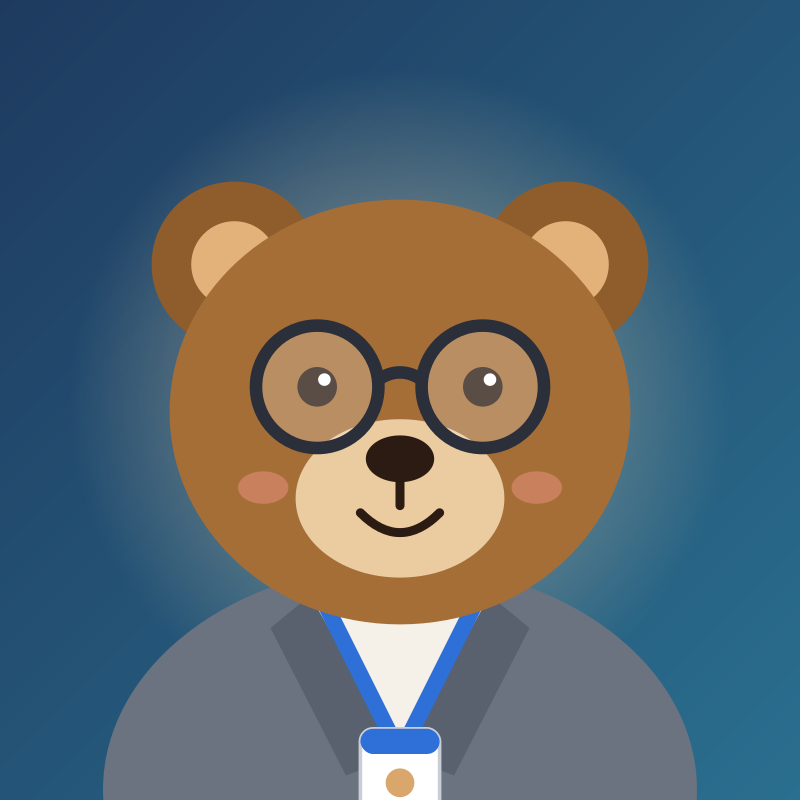
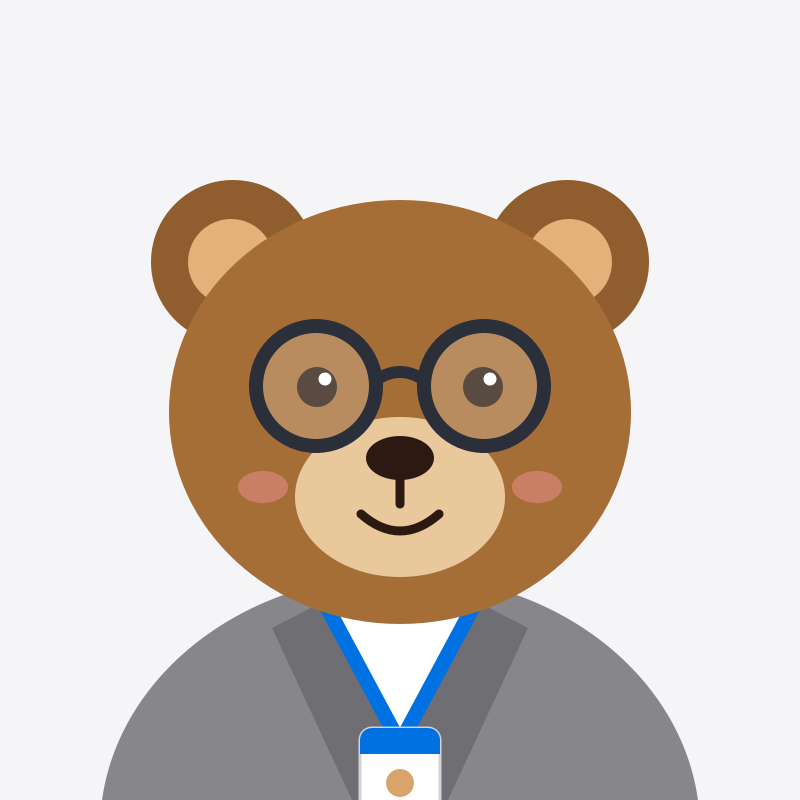
chore: white-theme mascot, new OG image, security updates, cleanup
- Redraw bear mascot on light background; regenerate profile, icons, favicon
- New Open Graph image matching the light design
- Upgrade next 16.4.6, react 19.3.1, nodemailer 10.6.0 (0 audit issues)
- Replace Material Symbols font with inline SVG icons
- Remove unused tool-name list and solution icon fields

diff --git a/src/data/solutions.ts b/src/data/solutions.ts
@@ -5,7 +5,6 @@ export interface Solution {
   name: string;
   summary: string;
   url: string;
-  icon: string; // Material Symbols 이름
   image: string; // public/images 안의 화면 캡처
   imageAlt: string;
 }
@@ -17,7 +16,6 @@ export const FEATURED_SOLUTIONS: Solution[] = [
     name: "AI-SEN 행정챗봇 & 출장여비",
     summary: "지침서·법령 근거로 답하는 3-Tier 챗봇과 관내·관외·해외 출장여비 산출",
     url: SITE.chatbotUrl,
-    icon: "smart_toy",
     image: "/images/shot-chatbot.webp",
     imageAlt: "AI-SEN 행정챗봇 화면",
   },
@@ -26,7 +24,6 @@ export const FEATURED_SOLUTIONS: Solution[] = [
     name: "서울교육 계약나침반",
     summary: "2026 지침 기준 계약방법 판단과 구비서류 안내",
     url: `${SITE.portalUrl}/tools/contract`,
-    icon: "explore",
     image: "/images/shot-contract.webp",
     imageAlt: "서울교육 계약나침반 화면",
   },
@@ -35,21 +32,12 @@ export const FEATURED_SOLUTIONS: Solution[] = [
     name: "공사원가 스마트 검수",
     summary: "조달청 고시 제비율 기준 역산 검증 및 검수 보고서 출력",
     url: `${SITE.portalUrl}/tools/cost-audit`,
-    icon: "calculate",
     image: "/images/shot-cost-audit.webp",
     imageAlt: "공사원가 스마트 검수 화면",
   },
 ];
 
-// AI-SEN 포털에 게시된 16종 도구 이름 (aisen.store 홈 목록 기준). 흐르는 띠에 사용합니다.
-export const ALL_TOOL_NAMES = [
-  "행정챗봇", "행정서고", "출장여비", "에듀파인 따라하기",
-  "계약", "공사원가", "학교회계", "예산정산",
-  "엑셀수합", "엑셀분리", "급여식대", "학생진급",
-  "기안문", "지출바인더", "교실배치도", "시설대관",
-] as const;
-
-// 전체 도구 카드 영역. aisen.store 홈 목록 기준.
+// "그 밖의 업무 도구" 목록. aisen.store 홈 목록 기준 (대표 솔루션 3개 + 아래 12개 = 16종, 출장여비는 챗봇에 포함).
 export const OTHER_TOOLS: { name: string; summary: string }[] = [
   { name: "행정서고", summary: "공식 지침서 102권 열람" },
   { name: "학교회계", summary: "세부사업·추경 집행 대시보드 (베타)" },

diff --git a/src/app/card/page.tsx b/src/app/card/page.tsx
@@ -3,7 +3,7 @@ import Image from "next/image";
 import Link from "next/link";
 import QrCode from "../components/QrCode";
 import VCardButton from "../components/VCardButton";
-import { Chevron } from "../components/ui";
+import { Chevron, Icon } from "../components/ui";
 import { SITE } from "@/data/site";
 import { FEATURED_SOLUTIONS } from "@/data/solutions";
 
@@ -35,11 +35,11 @@ export default function CardPage() {
           <div className="grid grid-cols-2 gap-2">
             {SITE.phone && (
               <a href={`tel:${SITE.phone}`} className={`${btn} bg-paper text-ink hover:bg-[#e8e8ed]`}>
-                <span className="material-symbols-outlined !text-[20px]" aria-hidden="true">call</span>전화
+                <Icon name="call" />전화
               </a>
             )}
             <a href={`mailto:${SITE.email}`} className={`${btn} bg-paper text-ink hover:bg-[#e8e8ed]`}>
-              <span className="material-symbols-outlined !text-[20px]" aria-hidden="true">mail</span>이메일
+              <Icon name="mail" />이메일
             </a>
             <VCardButton className={`${btn} bg-accent text-white hover:bg-[#0077ed] ${SITE.phone ? "col-span-2" : ""}`} />
           </div>

diff --git a/src/app/components/ui.tsx b/src/app/components/ui.tsx
@@ -2,6 +2,23 @@ import type { ReactNode } from "react";
 
 // 공통 부품: 섹션 제목, 꺾쇠 링크. 디자인을 바꿀 때 여기부터 손보면 전체에 반영됩니다.
 
+// 사이트에서 쓰는 아이콘 (선 굵기 1.8의 단순한 SVG). 외부 아이콘 폰트를 받지 않습니다.
+const ICON_PATHS = {
+  menu: "M4 8h16M4 16h16",
+  close: "M6 6l12 12M18 6L6 18",
+  mail: "M4 6h16v12H4zM4 7l8 6 8-6",
+  call: "M6.5 3.5h3l1.5 4-2 1.5a11 11 0 0 0 6 6l1.5-2 4 1.5v3a2 2 0 0 1-2 2A16 16 0 0 1 4.5 5.5a2 2 0 0 1 2-2z",
+  personAdd: "M9.5 11a3.5 3.5 0 1 0 0-7 3.5 3.5 0 0 0 0 7zM3 20a6.5 6.5 0 0 1 13 0M19 8v6M16 11h6",
+} as const;
+
+export function Icon({ name, className = "w-5 h-5" }: { name: keyof typeof ICON_PATHS; className?: string }) {
+  return (
+    <svg viewBox="0 0 24 24" aria-hidden="true" className={className}>
+      <path d={ICON_PATHS[name]} fill="none" stroke="currentColor" strokeWidth="1.8" strokeLinecap="round" strokeLinejoin="round" />
+    </svg>
+  );
+}
+
 export function Chevron({ className = "" }: { className?: string }) {
   return (
     <svg viewBox="0 0 8 14" aria-hidden="true" className={`inline-block w-[0.42em] h-[0.75em] ${className}`}>

diff --git a/src/app/layout.tsx b/src/app/layout.tsx
@@ -21,9 +21,6 @@ export const viewport: Viewport = {
   themeColor: "#ffffff",
 };
 
-// 사이트에서 쓰는 아이콘만 받아옵니다 (알파벳순 필수). 새 아이콘을 쓰면 여기에 추가하세요.
-const ICONS = ["call", "close", "mail", "menu", "person_add"].join(",");
-
 export default function RootLayout({
   children,
 }: Readonly<{
@@ -37,10 +34,6 @@ export default function RootLayout({
         <link
           rel="stylesheet"
           href="https://cdn.jsdelivr.net/gh/orioncactus/pretendard@v1.3.9/dist/web/variable/pretendardvariable-dynamic-subset.min.css"
-        />
-        <link
-          rel="stylesheet"
-          href={`https://fonts.googleapis.com/css2?family=Material+Symbols+Outlined:opsz,wght,FILL,GRAD@20..48,100..700,0..1,-50..200&icon_names=${ICONS}&display=block`}
         />
       </head>
       <body className="min-h-full flex flex-col">{children}</body>

diff --git a/src/app/globals.css b/src/app/globals.css
@@ -45,23 +45,6 @@
   }
 }
 
-/* Material Symbols */
-.material-symbols-outlined {
-  font-family: 'Material Symbols Outlined';
-  font-weight: normal;
-  font-style: normal;
-  font-size: 24px;
-  line-height: 1;
-  letter-spacing: normal;
-  text-transform: none;
-  display: inline-block;
-  white-space: nowrap;
-  word-wrap: normal;
-  direction: ltr;
-  -webkit-font-feature-settings: 'liga';
-  -webkit-font-smoothing: antialiased;
-}
-
 /* ───────── 움직임 ─────────
    스크롤하면 살짝 떠오르는 효과만 씁니다. '동작 줄이기' 설정에서는 꺼집니다.
    스크롤 연동은 지원 브라우저(Chrome·Edge)에서만 켜지고, 그 외에는 그냥 보입니다. */

diff --git a/src/app/components/MobileMenu.tsx b/src/app/components/MobileMenu.tsx
@@ -2,6 +2,7 @@
 
 import { useEffect, useId, useState } from "react";
 import Link from "next/link";
+import { Icon } from "./ui";
 
 interface MobileMenuProps {
   links: { href: string; label: string }[];
@@ -32,7 +33,7 @@ export default function MobileMenu({ links, pages }: MobileMenuProps) {
         onClick={() => setOpen((v) => !v)}
         className="grid place-items-center w-11 h-11 text-ink"
       >
-        <span className="material-symbols-outlined !text-[22px]" aria-hidden="true">{open ? "close" : "menu"}</span>
+        <Icon name={open ? "close" : "menu"} className="w-6 h-6" />
       </button>
 
       {open && (

diff --git a/src/app/components/VCardButton.tsx b/src/app/components/VCardButton.tsx
@@ -1,6 +1,7 @@
 "use client";
 
 import { SITE } from "@/data/site";
+import { Icon } from "./ui";
 
 function esc(s: string) {
   return s.replace(/\\/g, "\\\\").replace(/;/g, "\\;").replace(/,/g, "\\,").replace(/\n/g, "\\n");
@@ -36,7 +37,7 @@ export default function VCardButton({ className = "" }: { className?: string }) 
 
   return (
     <button type="button" onClick={download} className={className}>
-      <span className="material-symbols-outlined" aria-hidden="true">person_add</span>
+      <Icon name="personAdd" />
       연락처 저장
     </button>
   );
